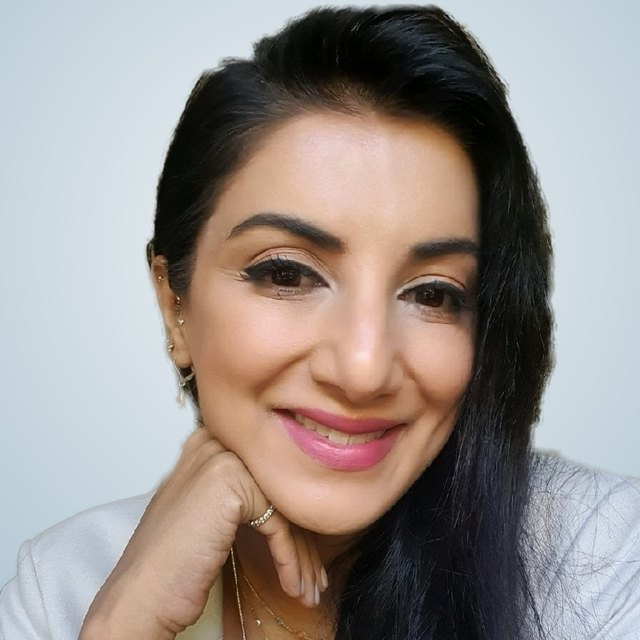
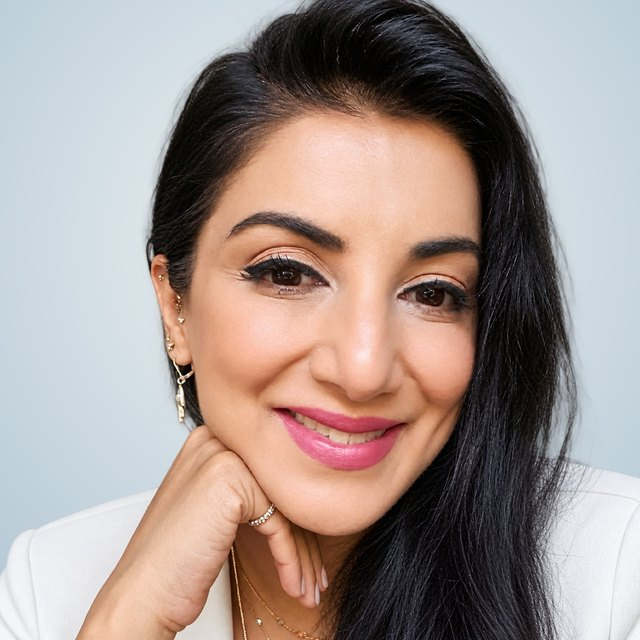
Update leadership portrait
Claude-Session: https://claude.ai/code/session_019mrYvgGwMzX7fU2BYnH2bR

diff --git a/index.html b/index.html
@@ -224,7 +224,7 @@
   <div class="wrap">
     <div class="about-visual">
       <div class="portrait-frame">
-        <img src="assets/leyya-kalla.jpg" width="640" height="640" alt="Leyya Kalla, Founder and Managing Director of QDS">
+        <img src="assets/leyya-kalla.jpg?v=2" width="640" height="640" alt="Leyya Kalla, Founder and Managing Director of QDS">
       </div>
     </div>
     <div class="about-copy">
